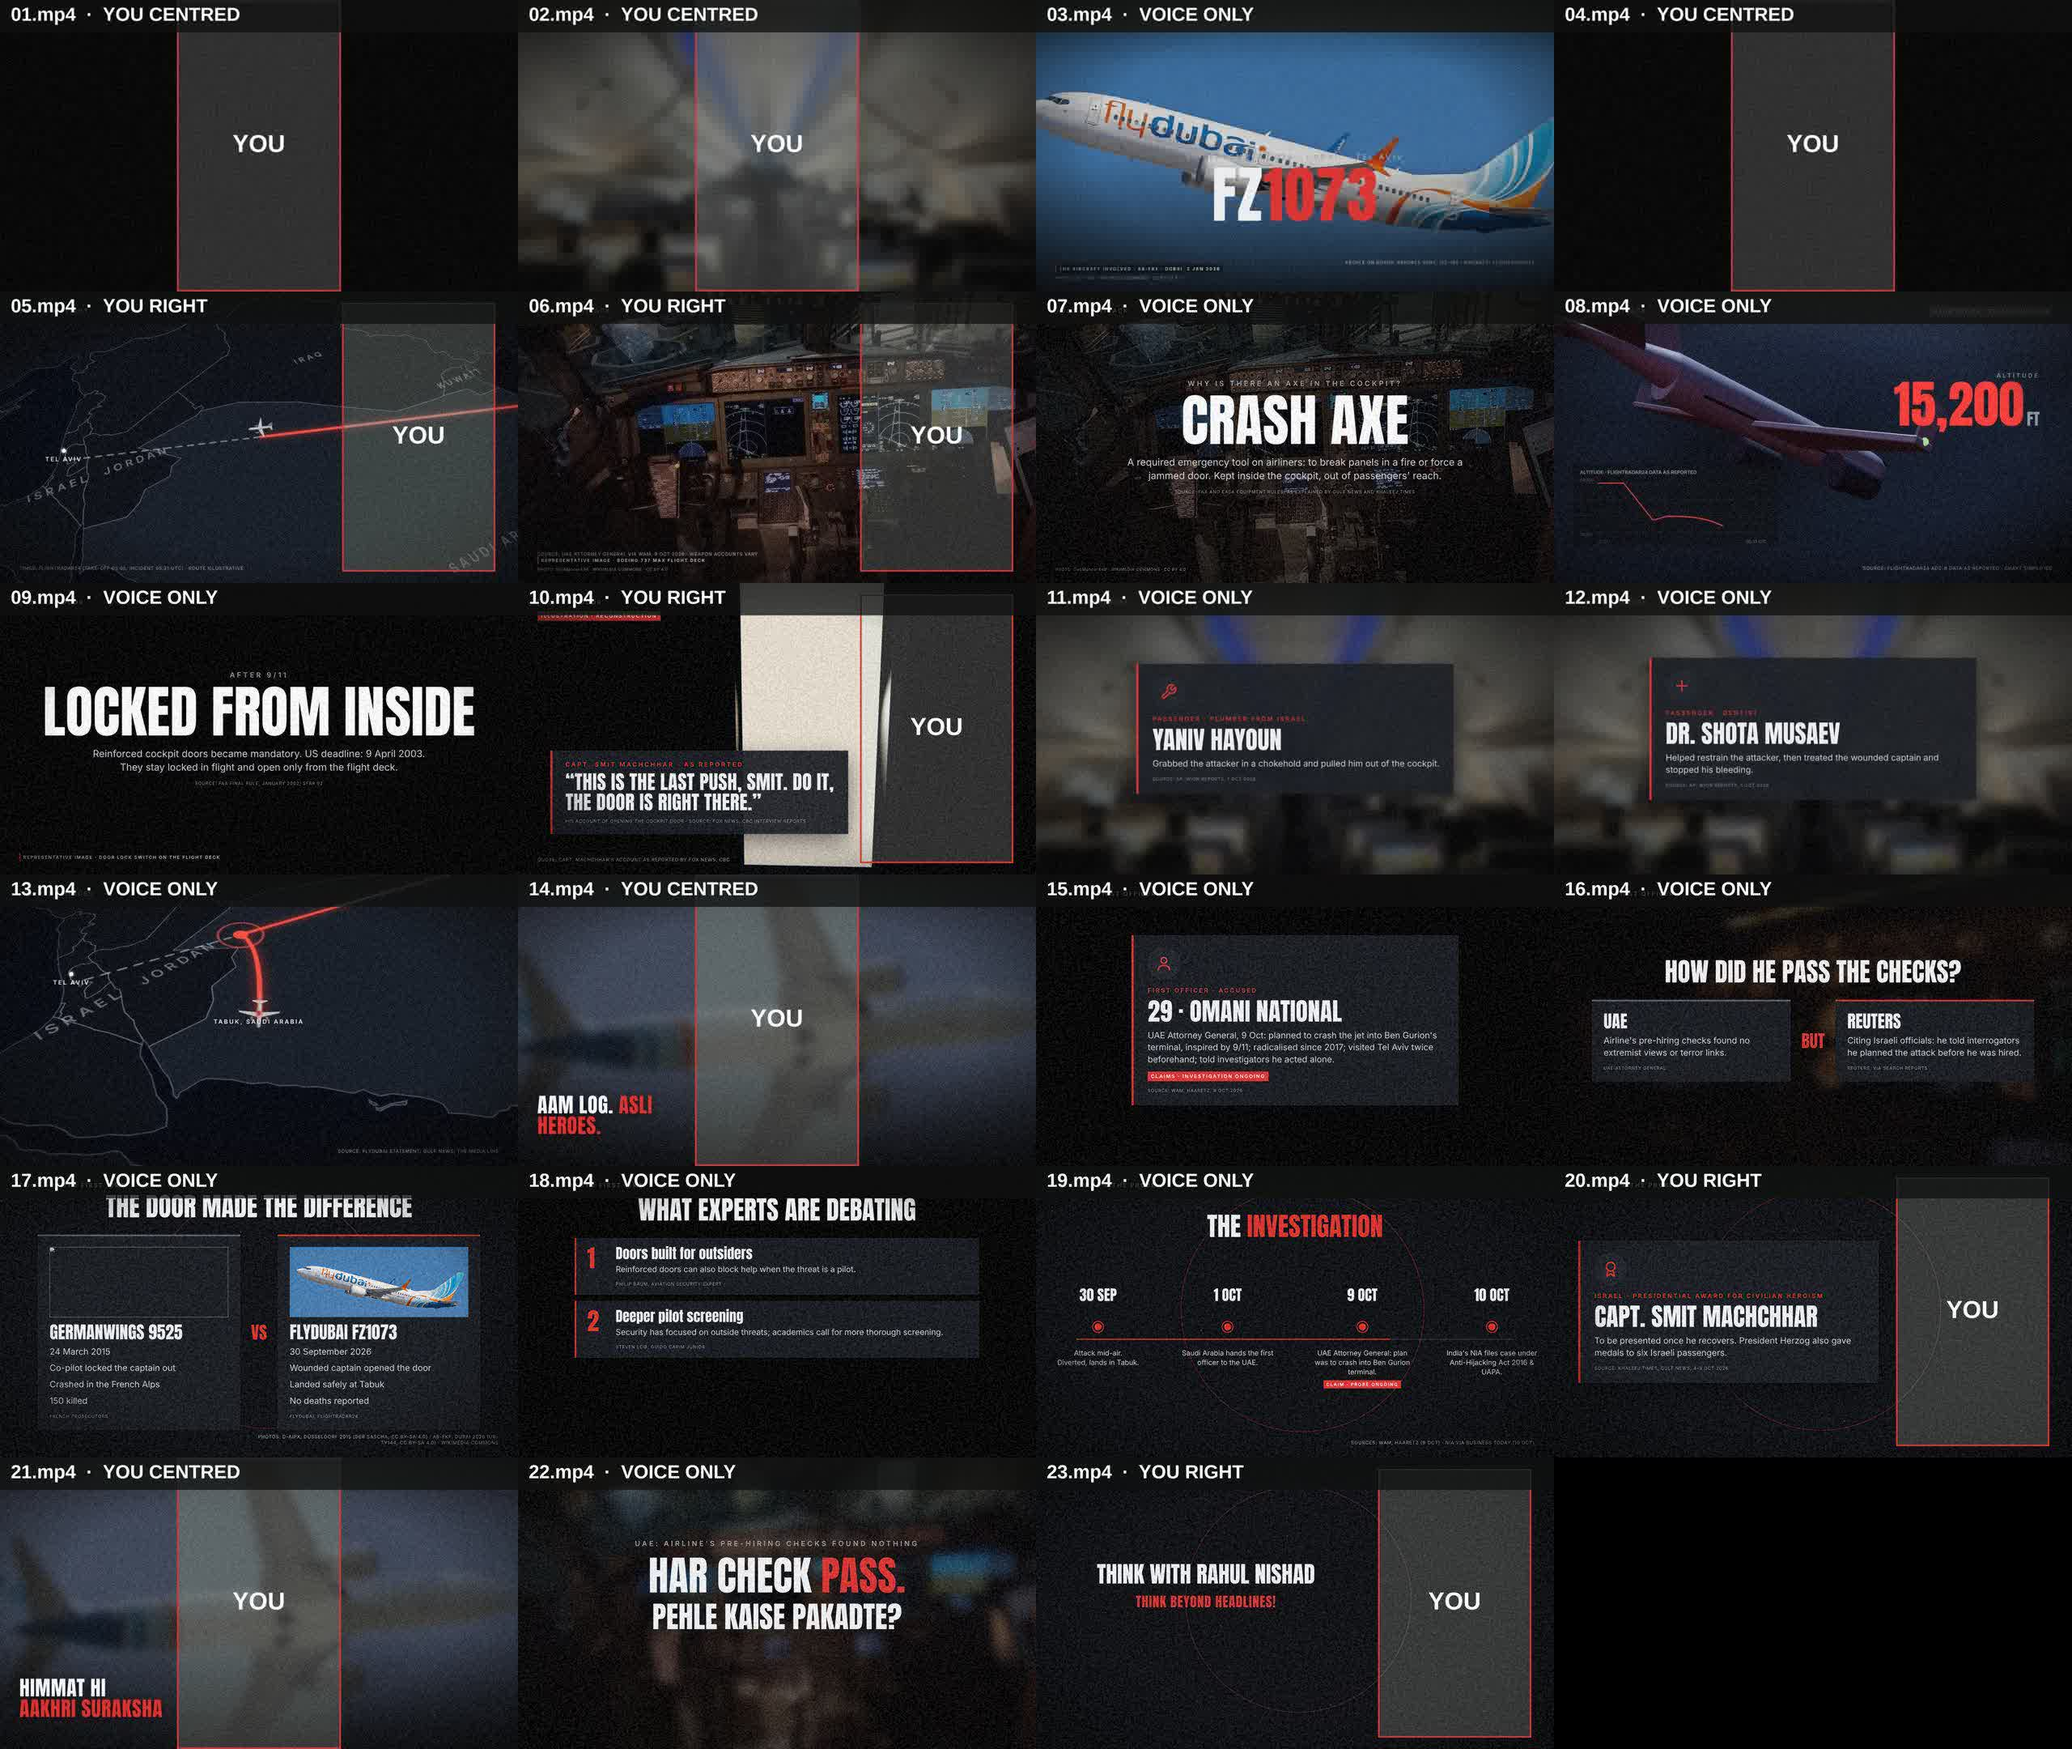
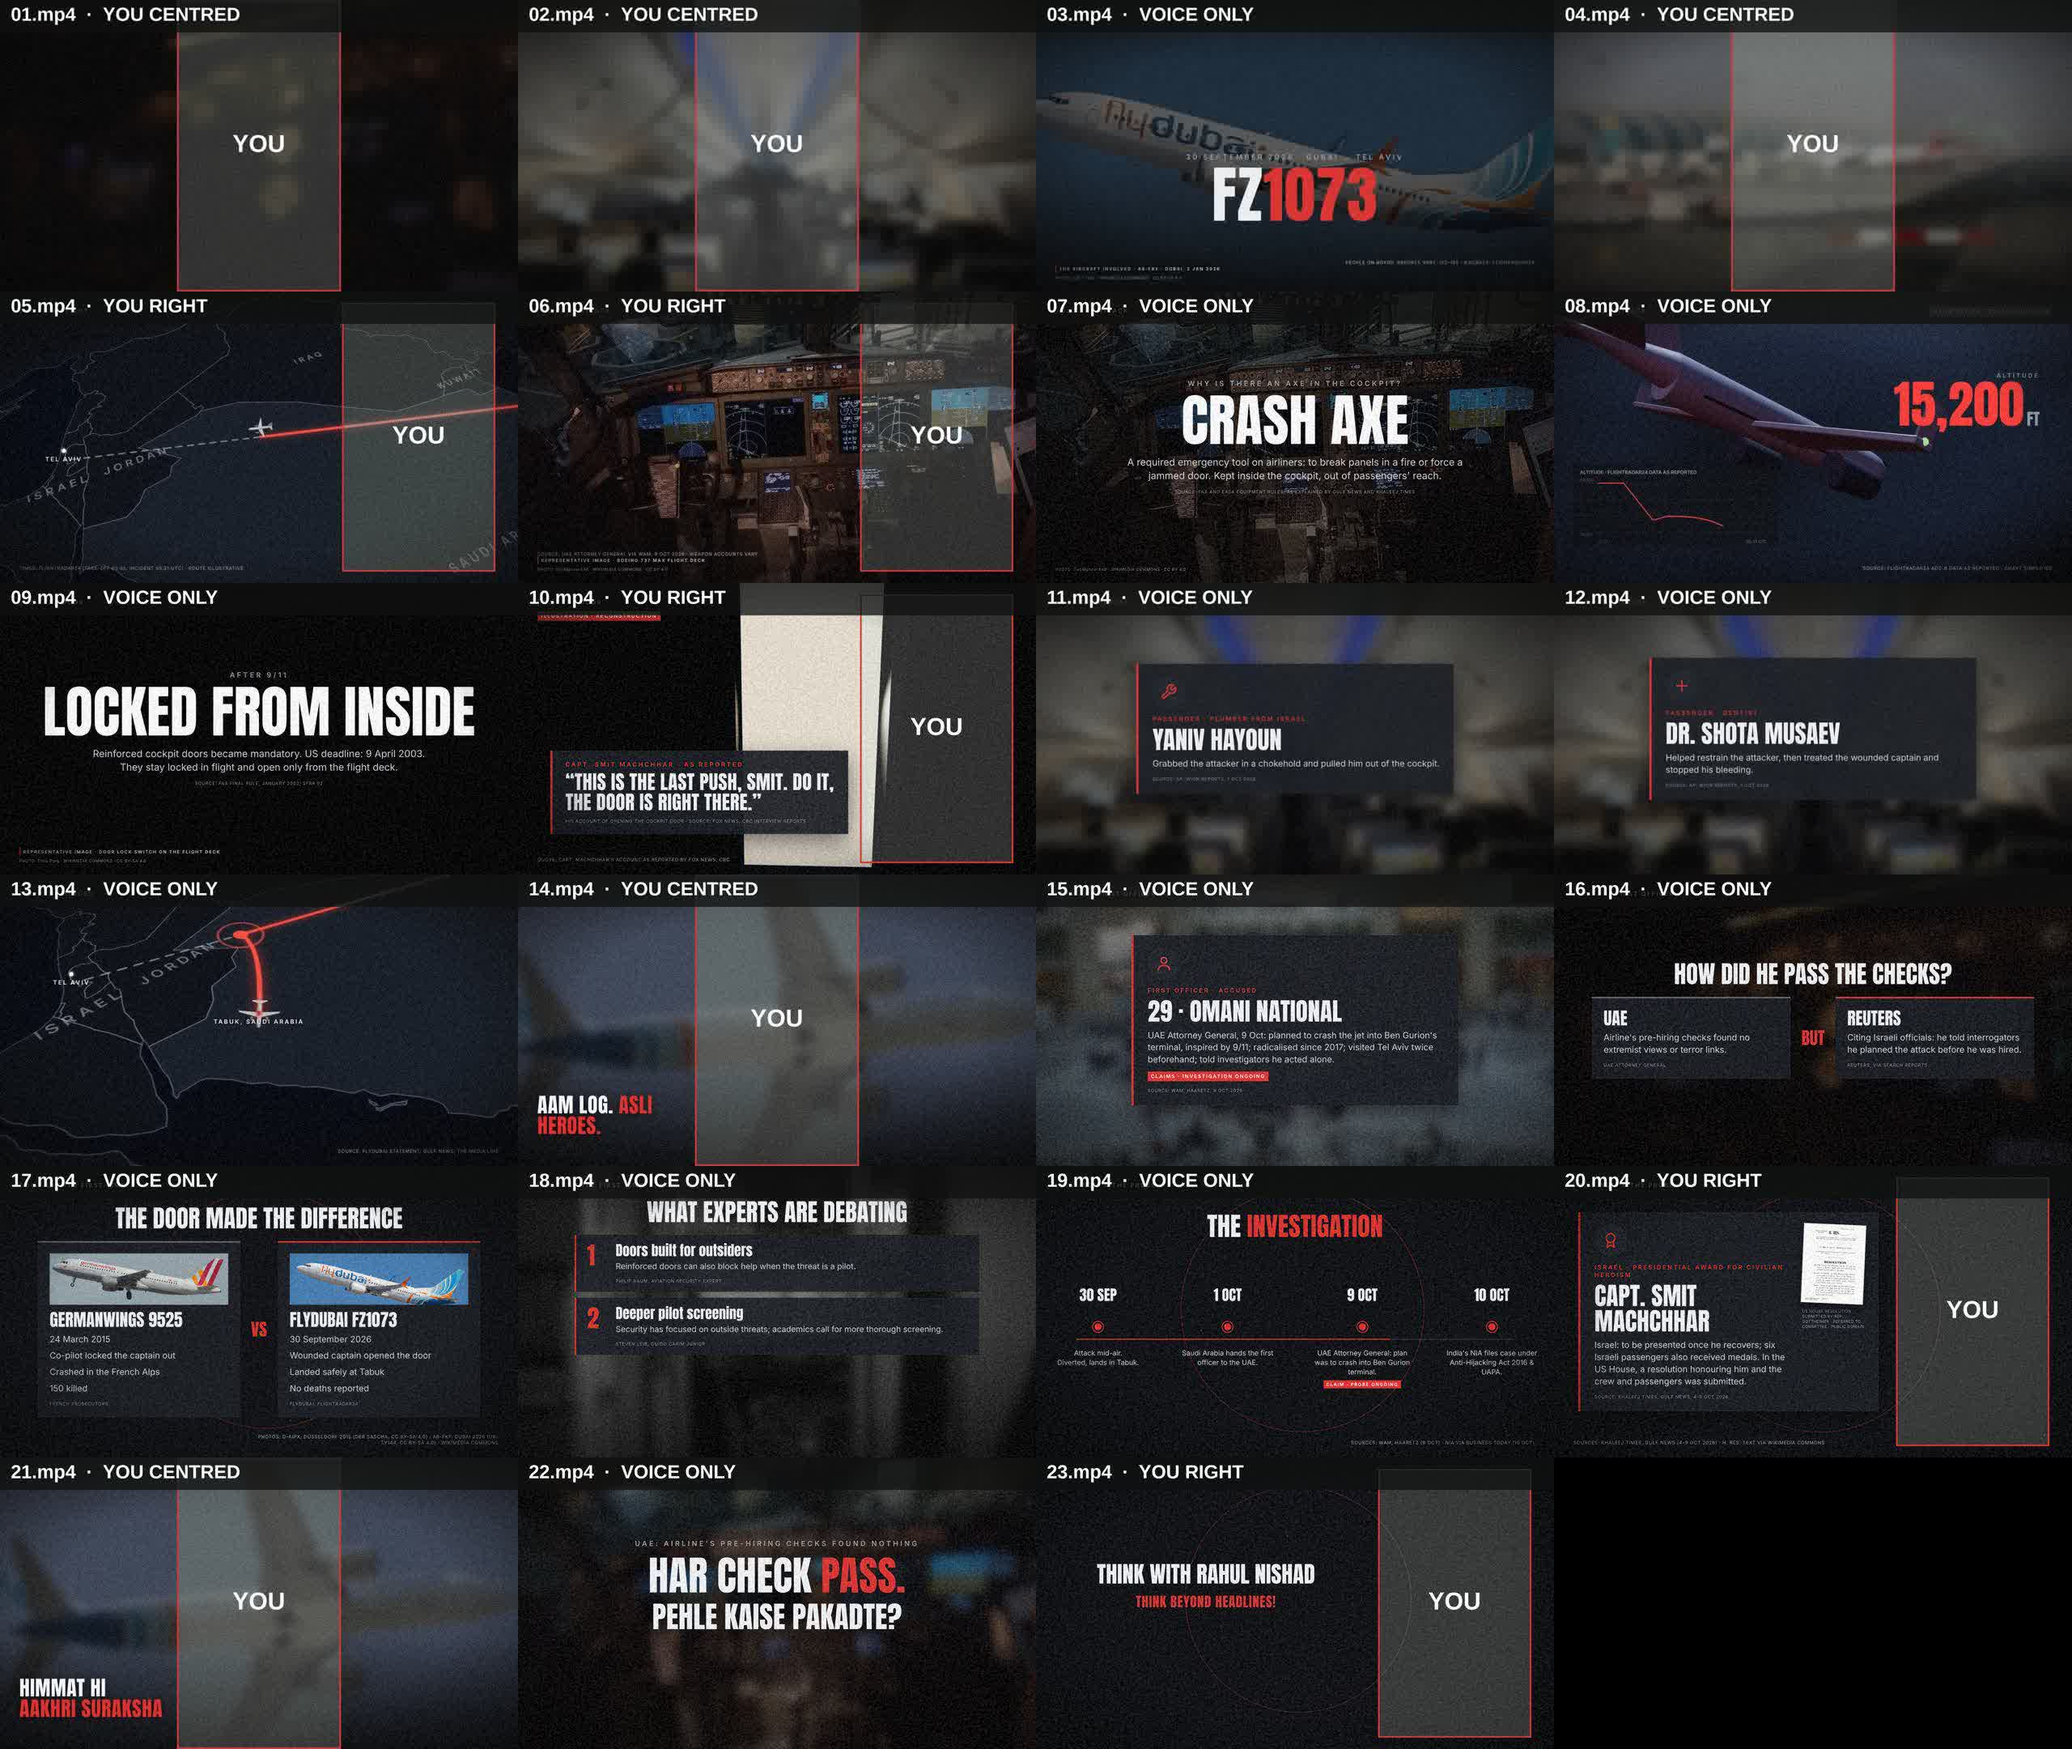
Use real photos across the storyboard; add House resolution and credits
All 13 Commons photos downloaded. Honour card shows the submitted US
House resolution text with an accurate caption, and scene 20 mentions it.
Comparison card fits; CREDITS.md lists every photo for the description.

Claude-Session: https://claude.ai/code/session_01DyfNuvA3f53JrGzHs5sXVs

diff --git a/samples/fz1073/comp.html b/samples/fz1073/comp.html
@@ -65,7 +65,7 @@ body.modeL .gcard{max-width:1000px}
 .gcard .what{font:400 32px/1.4 Inter;color:#d6dae0;margin-top:20px}
 .gcard .src,.gsrc{font:500 16px/1.3 Inter;letter-spacing:.1em;color:#8b939d;margin-top:24px}
 .tagc{display:inline-block;font:600 18px/1 Inter;letter-spacing:.2em;background:var(--red);color:#fff;padding:9px 12px;margin-top:22px}
-.gtitle{font:400 96px/1 Anton;margin-bottom:56px;text-align:center}
+.gtitle{font:400 90px/1 Anton;margin-bottom:40px;text-align:center}
 body.modeL .gtitle{text-align:left;font-size:80px}
 .gkick{font:600 26px/1 Inter;letter-spacing:.3em;color:var(--grey);margin-bottom:26px}
 .gbig{font:400 210px/.92 Anton;color:#fff}
@@ -91,9 +91,9 @@ body.modeL .gtitle{text-align:left;font-size:80px}
 #credit .ptag{display:inline-block;font:600 16px/1 Inter;letter-spacing:.2em;color:#fff;background:rgba(0,0,0,.55);border-left:4px solid var(--red);padding:8px 10px;margin-bottom:8px}
 body.hasCredit #source{bottom:96px}
 body.modeL #credit{max-width:1040px}
-.split .col img{width:100%;height:260px;object-fit:cover;display:block;margin-bottom:22px;filter:saturate(.9)}
-.gcard .doc{float:right;width:230px;margin:0 0 10px 34px;transform:rotate(2.5deg);box-shadow:0 18px 40px rgba(0,0,0,.6);border:1px solid #444}
-.gcard .doccap{font:500 13px/1.3 Inter;letter-spacing:.08em;color:#8b939d;margin-top:6px;text-align:right;clear:both}
+.split .col img{width:100%;height:190px;object-fit:cover;display:block;margin-bottom:22px;filter:saturate(.9)}
+.gcard .doc{width:230px;margin:0;transform:rotate(2.5deg);box-shadow:0 18px 40px rgba(0,0,0,.6);border:1px solid #444}
+.gcard .doccap{font:500 14px/1.35 Inter;letter-spacing:.06em;color:#9aa3ad;margin-top:16px}
 </style>
 <script src="/node_modules/topojson-client/dist/topojson-client.min.js"></script>
 <script type="importmap">{"imports":{"three":"/node_modules/three/build/three.module.js"}}</script>
@@ -431,7 +431,8 @@ const ICONS={
  plane:'<path d="M17.8 19.2 16 11l3.5-3.5C21 6 21.5 4 21 3c-1-.5-3 0-4.5 1.5L13 8 4.8 6.2c-.5-.1-.9.1-1.1.5l-.3.5c-.2.5-.1 1 .3 1.3L9 12l-2 3H4l-1 1 3 2 2 3 1-1v-3l3-2 3.5 5.3c.3.4.8.5 1.3.3l.5-.2c.4-.3.6-.7.5-1.2z"/>'};
 const icon=k=>ICONS[k]?`<div class="icon"><svg width="64" height="64" viewBox="0 0 24 24" fill="none" stroke="#e0312e" stroke-width="2" stroke-linecap="round" stroke-linejoin="round">${ICONS[k]}</svg></div>`:'';
 function genHTML(sc){const p=sc.params||{};
-  if(sc.look==='card')return `<div class="gcard" data-in="0.06">${p.doc?`<div style="float:right"><img class="doc" src="${pimg(p.doc)}"><div class="doccap">${p.doccap||''}</div></div>`:''}${icon(p.icon)}<div class="role">${p.role}</div><div class="name">${p.name}</div><div class="what">${p.what}</div>${p.tag?`<div><span class="tagc">${p.tag}</span></div>`:''}<div class="src">${p.src||''}</div></div>`;
+  if(sc.look==='card'){const body=`${icon(p.icon)}<div class="role">${p.role}</div><div class="name">${p.name}</div><div class="what">${p.what}</div>${p.tag?`<div><span class="tagc">${p.tag}</span></div>`:''}<div class="src">${p.src||''}</div>`;
+    return p.doc?`<div class="gcard" data-in="0.06" style="display:flex;gap:40px;align-items:flex-start"><div style="flex:1">${body}</div><div style="width:230px"><img class="doc" src="${pimg(p.doc)}"><div class="doccap">${p.doccap||''}</div></div></div>`:`<div class="gcard" data-in="0.06">${body}</div>`;}
   if(sc.look==='stat')return `<div style="text-align:${document.body.classList.contains('modeL')?'left':'center'}"><div class="gkick" data-in="0.02">${p.kicker}</div><div class="gbig" data-in="0.08">${p.big}</div><div class="gsub" data-in="0.3" style="margin-left:auto;margin-right:auto">${p.sub}</div><div class="gsrc" data-in="0.3">${p.src||''}</div></div>`;
   if(sc.look==='split'){const col=(c,r,at)=>`<div class="col ${r?'r':''}" data-in="${at}">${c.img?`<img src="${pimg(c.img)}">`:''}<div class="head">${c.head}</div>${c.lines.map(l=>`<div class="ln">${l}</div>`).join('')}<div class="gsrc">${c.src||''}</div></div>`;
     return `<div class="gtitle" data-in="0.02">${p.title}</div><div class="split">${col(p.left,0,0.1)}<div class="vs" data-in="0.45">${p.vs||'VS'}</div>${col(p.right,1,0.5)}</div>`;}

diff --git a/samples/fz1073/CREDITS.md b/samples/fz1073/CREDITS.md
@@ -1,0 +1,16 @@
+# Photo credits
+
+Paste into the YouTube description. Every photo is from Wikimedia Commons under the license shown.
+
+- A6-FKF B737Max8 2026-01-02 DXB FlyDubai psnb.jpeg by UB-TY144, CC BY-SA 4.0, https://commons.wikimedia.org/wiki/File:A6-FKF_B737Max8_2026-01-02_DXB_FlyDubai_psnb.jpeg
+- Economy class cabin interior of Boeing 737 MAX aircraft of Flydubai, 2022.jpg by Kgbo, CC BY-SA 4.0, https://commons.wikimedia.org/wiki/File:Economy_class_cabin_interior_of_Boeing_737_MAX_aircraft_of_Flydubai,_2022.jpg
+- 737 MAX cockpit.jpg by GeoMancer448, CC BY 4.0, https://commons.wikimedia.org/wiki/File:737_MAX_cockpit.jpg
+- 737NG panel at night (4559317601).jpg by Shawn from Airdrie, Canada, CC BY-SA 2.0, https://commons.wikimedia.org/wiki/File:737NG_panel_at_night_(4559317601).jpg
+- 320 GERMANWINGS D-AIPX 147 10 05 14 BCN RIP (16730197959).jpg by SEBASTIEN MORTIER, CC BY-SA 2.0, https://commons.wikimedia.org/wiki/File:320_GERMANWINGS_D-AIPX_147_10_05_14_BCN_RIP_(16730197959).jpg
+- Cockpit Door - Boeing 757 (26311617499).jpg by formulanone from Huntsville, United States, CC BY-SA 2.0, https://commons.wikimedia.org/wiki/File:Cockpit_Door_-_Boeing_757_(26311617499).jpg
+- Cockpit door lock toggle switch Airbus A319-100 D-AKNM Germanwings.jpg by Thilo Parg, CC BY-SA 4.0, https://commons.wikimedia.org/wiki/File:Cockpit_door_lock_toggle_switch_Airbus_A319-100_D-AKNM_Germanwings.jpg
+- Dubai International Airport Terminal three.JPG by VtTN, CC BY-SA 3.0, https://commons.wikimedia.org/wiki/File:Dubai_International_Airport_Terminal_three.JPG
+- Flydubai 737 8-MAX (A6-FMN) taking off from Pisa airport, P4 parking, 2024.jpg by Marcxosm, CC BY 4.0, https://commons.wikimedia.org/wiki/File:Flydubai_737_8-MAX_(A6-FMN)_taking_off_from_Pisa_airport,_P4_parking,_2024.jpg
+- 2026 US House Resolution - Honoring Captain Smit Machchhar - page 1.jpg by United States House of Representatives, Public domain, https://commons.wikimedia.org/wiki/File:2026_US_House_Resolution_-_Honoring_Captain_Smit_Machchhar_-_page_1.jpg
+- TUU 0456 (4647926379).jpg by United States Naval Academy Photo Archive, Public domain, https://commons.wikimedia.org/wiki/File:TUU_0456_(4647926379).jpg
+- Tel Aviv, Ben Gurion Airport, Departure Hall.jpg by Vladislav Bezrukov, CC BY 2.0, https://commons.wikimedia.org/wiki/File:Tel_Aviv,_Ben_Gurion_Airport,_Departure_Hall.jpg

diff --git a/samples/fz1073/RECORDING_SCRIPT.md b/samples/fz1073/RECORDING_SCRIPT.md
@@ -2,7 +2,7 @@
 
 _Ek ghayal Indian captain, ek plumber, ek dentist aur do off-duty pilots ne 170 se zyada zindagiyan kaise bachaayi_
 
-**23 scenes · 992 words · about 7 minutes at 140 words per minute**
+**23 scenes · 1013 words · about 7 minutes at 140 words per minute**
 
 ## How to record
 
@@ -106,7 +106,7 @@ _Direction: Teen points, ungliyon par ginte hue._
 _Direction: Seedha, official tone._
 
 **20.mp4** · Shot B · You on the right, graphic on the left
-> Aur Captain Smit? Israel ke Rashtrapati Isaac Herzog ne ailaan kiya hai, ki unhe Israel ka Presidential Award for Civilian Heroism diya jaayega, jaise hi woh theek ho jaate hain. Herzog ne chhe Israeli passengers ko bhi medal diye. UAE mein Bharatiya embassy ke mutabik, Captain Smit ab theek ho rahe hain.
+> Aur Captain Smit? Israel ke Rashtrapati Isaac Herzog ne ailaan kiya hai, ki unhe Israel ka Presidential Award for Civilian Heroism diya jaayega, jaise hi woh theek ho jaate hain. Herzog ne chhe Israeli passengers ko bhi medal diye. America ki House of Representatives mein bhi, unke aur crew aur passengers ke sammaan mein ek resolution pesh kiya gaya hai. UAE mein Bharatiya embassy ke mutabik, Captain Smit ab theek ho rahe hain.
 _Direction: Garv ke saath, halki muskurahat._
 
 **21.mp4** · Shot B · You on screen, centred
